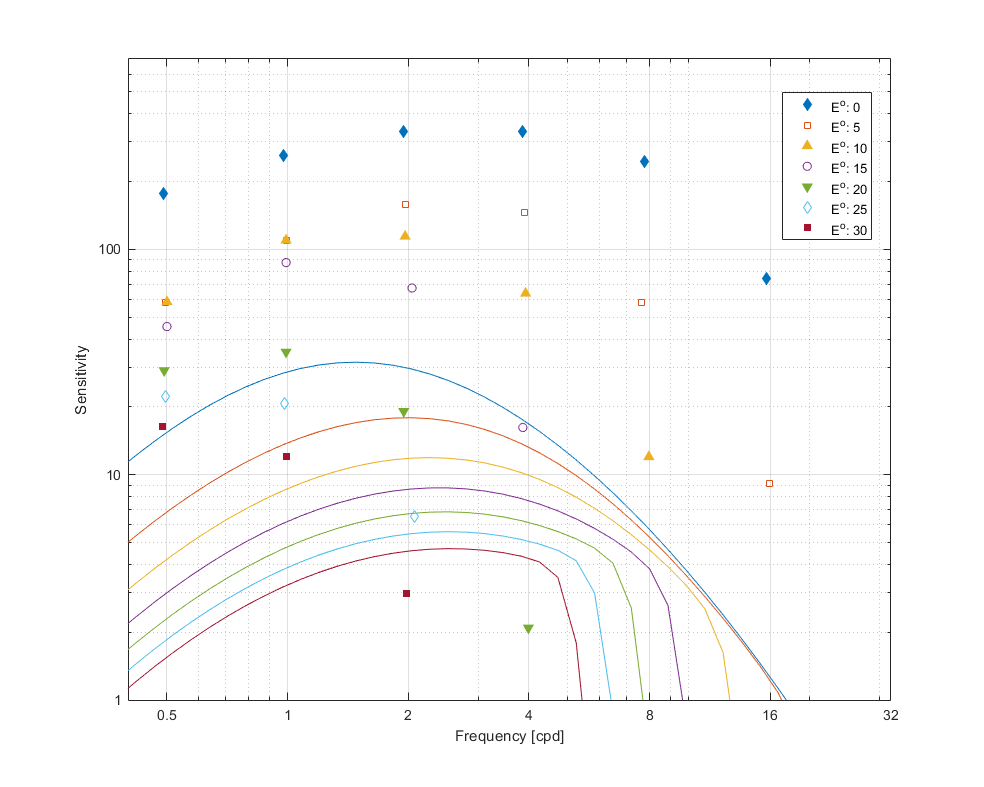
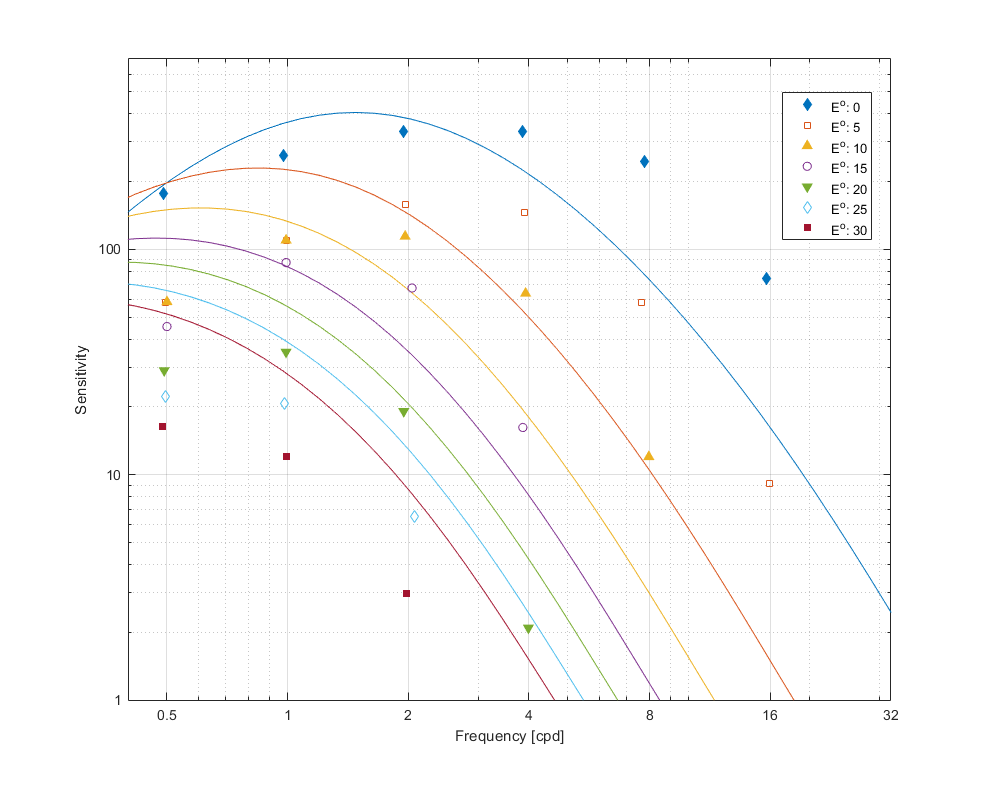
update virsu

diff --git a/share/st_temp_ecc/index.html b/share/st_temp_ecc/index.html
@@ -13,15 +13,15 @@ function detectLeftButton(evt) {
 
 <body>
 <h1>CSF model fit: st_temp_ecc</h1>
-<p>Report generated on 22-Oct-2021 15:34:53</p>
+<p>Report generated on 22-Oct-2021 16:55:06</p>
 <h2>Fitting error</h2>
 <TABLE>
-<tr><td rowspan="2">Dataset</td><td colspan="1">Fitting error</td><td colspan="1">Sensitivity adjustment</td></tr><tr><td>CSF from FovVideoVDP</td><td>CSF from FovVideoVDP</td></tr><tr><td>Average</td><td>27.7229 [dB]</td><td>N/A</td></tr><tr><td>modelfest</td><td>26.2186 [dB]</td><td>1</td></tr><tr><td>hdrvdp_csf</td><td>20.6589 [dB]</td><td>1.54028</td></tr><tr><td>laird2006</td><td>22.6898 [dB]</td><td>1.04254</td></tr><tr><td>krajancich2021</td><td>109.04 [dB]</td><td>1.49082</td></tr><tr><td>kong2018</td><td>17.9068 [dB]</td><td>0.33732</td></tr><tr><td>virsu1979</td><td>18.9231 [dB]</td><td>1.14305</td></tr></TABLE>
+<tr><td rowspan="2">Dataset</td><td colspan="1">Fitting error</td><td colspan="1">Sensitivity adjustment</td></tr><tr><td>CSF from FovVideoVDP</td><td>CSF from FovVideoVDP</td></tr><tr><td>Average</td><td>1.17866 [dB]</td><td>N/A</td></tr><tr><td>modelfest</td><td>0.220334 [dB]</td><td>1</td></tr><tr><td>hdrvdp_csf</td><td>0.601172 [dB]</td><td>1.01334</td></tr><tr><td>laird2006</td><td>1.35035 [dB]</td><td>0.992015</td></tr><tr><td>virsu1979</td><td>3.16923 [dB]</td><td>0.998247</td></tr></TABLE>
 <h2>Model parameters</h2>
 <div class="params_frame">
 <div align="center">CSF from FovVideoVDP</div>
 <div style="white-space: pre-line;">
-	p.S_0 = 0.139374;
+	p.S_0 = 2.04708;
 </div>
 </div>
 <h2>Legend</h2>
@@ -40,20 +40,6 @@ function detectLeftButton(evt) {
 <h2 id="laird2006"><a class="top_align_button" href="#laird2006">&#8632;</a>Dataset: Laird et al. 2006</h2>
 <div>Achromatic CSF as a function of temporal frequency for different spatial frequencies<br/>
 <img src="fig_laird2006_1.png"/>
-<br/></div>
-<h2 id="krajancich2021"><a class="top_align_button" href="#krajancich2021">&#8632;</a>Dataset: Eccentricity-dependent spatio-temporal flicker fusion</h2>
-<div>Critical fusion frequency at eccentricities<br/>
-<img src="fig_krajancich2021_1.png"/>
-<br/></div>
-<div>Critical fusion frequency at luminance levels<br/>
-<img src="fig_krajancich2021_2.png"/>
-<br/></div>
-<div>Critical fusion frequency for spatial frequencies<br/>
-<img src="fig_krajancich2021_3.png"/>
-<br/></div>
-<h2 id="kong2018"><a class="top_align_button" href="#kong2018">&#8632;</a>Dataset: Kong et al. 2018</h2>
-<div>Chromatic CSF as a function of temporal frequency<br/>
-<img src="fig_kong2018_1.png"/>
 <br/></div>
 <h2 id="virsu1979"><a class="top_align_button" href="#virsu1979">&#8632;</a>Dataset: Visual resolution, contrast sensitivity, and the cortical magnification factor</h2>
 <div>Contrast sensitivity of central and peripheral vision as a function of spatial frequency and eccentricity<br/>
